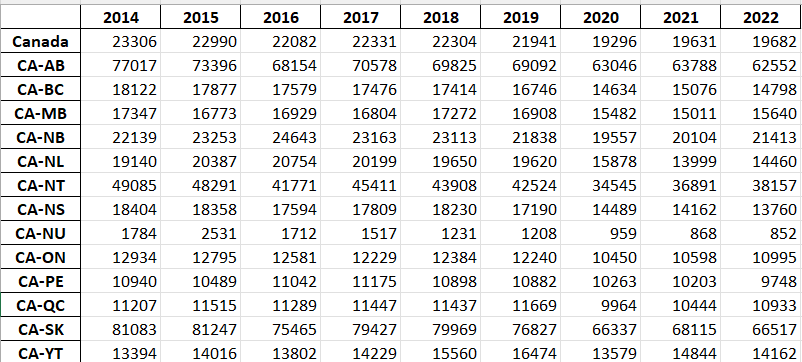
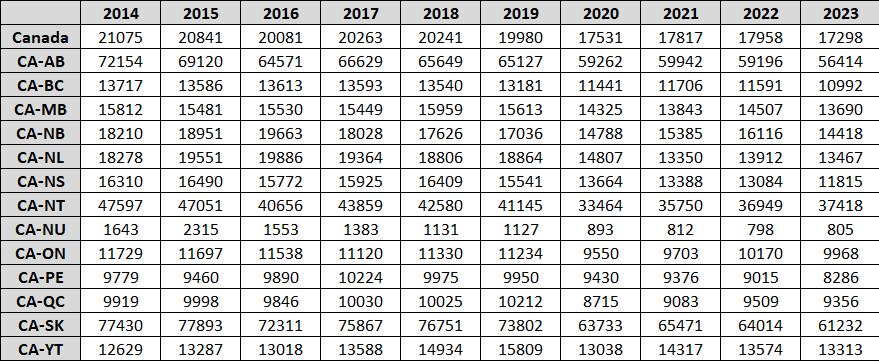
Finalize v2.12 release.

diff --git a/README.md b/README.md
@@ -1,48 +1,53 @@
-## _OpenIO-Canada v2.11.1_
+## _OpenIO-Canada v2.12_
 
 Python class creating Multi-Regional symmetric Environmentally Extended Input-Output (MREEIO) tables for Canada. OpenIO-Canada 
 operates at the provincial level (13 provinces). It can thus be used to compare the environmental impacts of value chains
 or consumption by households from any specific province.
 
-The database covers reference years from 2014 to 2022.
+The database covers reference years from 2014 to 2023.
 
 OpenIO-Canada covers 492 commodities, 33 GHGs, around 300 pollutants in 3 compartments (air, water and soil), 
-67 mineral resources, water consumption, energy use and plastic waste pollution.
+67 mineral resources, water consumption and energy use.
 
 OpenIO-Canada is connected to the Exiobase global MRIO database to model value chains happening outside Canada.
 
-**_IMPORTANT_** While openIO-Canada v2.11.1 CAN operate with Exiobase versions 3.9.4, 3.9.5, 3.9.6, 3.10.1, 3.10.2 we do NOT recommend 
-using these versions of Exiobase, as there are significant mistakes in the modeling of the mining sector. This triggers
-a drastic overestimation of Canada's own footprint, through its imports of minerals (notably through the American imports).
+**_IMPORTANT_** While openIO-Canada v2.12 CAN operate with Exiobase versions 3.9.4, 3.9.5, 3.9.6, 3.10.1, 3.10.2 we do NOT recommend 
+using these versions of Exiobase, as there are significant mistakes in the modeling of the mining sector. Instead use the
+latest available version from v3.11.2.
+
+Only interested in the emission factors of the latest year? You can access them already extracted here: https://doi.org/10.5281/zenodo.5553376
 
 ### Getting started
 
 Clone the repository (or download it) and install the different libraries required to run this Python class (requirements.txt).<br>
-Note that we recommend working with version **3.9** of Python as we can ensure it works for that specific version.<br>
 Go to the doc folder and start with the Running_openIO-Canada.ipynb file to generate the IO tables. You can then explore 
 how to use openIO-Canada with the other notebooks.
 
 ### Carbon footprint per capita estimates
-Using openIO-Canada v2.11.1 (with capitals endogenized) and population estimates from StatCan, we can derive carbon 
-footprints per capita for all 13 provinces of Canada, and Canada as a whole, from 2014 to 2022, following a consumption approach.
+Using openIO-Canada v2.12 (with capitals endogenized) and population estimates from StatCan, we can derive carbon 
+footprints per capita for all 13 provinces of Canada, and Canada as a whole, from 2014 to 2023, following a consumption approach.
 
 <img src="images/consumption_footprints.png" width="600"/>
 
-We can see that the national carbon footprint per capita is around 19tCO2eq, even though it slightly decreased during the
-COVID years (2019, 2020 & 2021). We can also note that there was virtually no progress nationally from 2014 to 2022. 
-Per province, it follows a similar trend of virtually no progress. Three provinces stand out. Alberta significantly reduced
-its enormous carbon footprint per capita from 34tCO2eq to 24tCO2eq, even though it is still one of the worst in Canada. 
-On the other hand, both Québec and British Columbia in 2022 had their worst carbon footprint by far in over 8 years.
+We can see that the national carbon footprint per capita is around 15.5tCO2eq, which represents its lowest level since 2014.
+Similar trends can be observed across provinces, with 2023 often being the year with the lowest per capita carbon footprint.
+In particular, let's highlight the per capita carbon footprint of Alberta, which decreased from 32tCO2eq/hab. to 20tCO2eq, below
+Saskatchewan and Nova Scotia.
+These decreases should most likely be due to two factors:
+- there was a surge in population in 2023 across Canada (1.3 million more inhabitants), resulting in a drop in per capita
+carbon footprint
+- Electric power generation emissions plunged acros provinces. One notable exception is Ontario which switch some of its
+nuclear power generation for natural gas power plant, which increased its electricity power generation emissions by nearly 50%.
 
 We can also look at the same results, but through a territorial approach.
 
 <img src="images/territorial_footprints.png" width="600"/>
 
-The national carbon footprint following a territorial approach is also around 20tCO2eq. This time however, we can see a small
-decrease of that footprint over time. This could be explained by a greening of the operations throughout Canada, although 
-such a greening procedure would have most likely triggered a decrease of the consumption footprint as well. This thus 
-rather seems to indicate that Canada delocalized a part of its production, instead relying on imports. <br>
-Regarding provinces, we can see that the worst of the national production exclusively happens in Alberta and Saskatchewan.
+The national carbon footprint following a territorial approach is around 17tCO2eq. 2023 is also the year with the lowest
+territorial GHG emissions since 2014. This is once again driven by decreased across the board, but more importantly, in
+Alberta and Saskatchewan which both have tremendous per capita footprint, due to petroleum extraction activities. Except
+for these two provinces, the territorial approach yields a smaller carbon footprint than the consumption one, highlighting
+than other provinces are mostly importers of GHG emissions, rather than producers/exporters.
 
 
 ### Classification detail
@@ -92,13 +97,16 @@ maxime.agez@polymtl.ca
 ### Citation
 https://doi.org/10.5281/zenodo.8200655
 
+## 📊 Community Adoption
+
 ### Scientific articles using openIO-Canada
+- Antoine Théron, Guillaume Escoffier, Jean-François Bussières (2026). Estimation des gaz à effet de serre générés par les médicaments en établissement de santé: comparaison de deux méthodes, Annales Pharmaceutiques Françaises, ISSN 0003-4509,https://doi.org/10.1016/j.pharma.2026.08.001.
 - Santiago Zuluaga, Shoshanna Saxe (2025), Leveraging building permit data for large-scale embodied carbon and circularity assessment of residential building construction, Environ. Res.: Infrastruct. Sustain. 5 035015. https://doi.org/10.1088/2634-4505/adfc95
 - Wambersie, L., & Ouellet-Plamondon, C. (2024). Developing a comprehensive account of embodied emissions within the Canadian construction sector. Journal of Industrial Ecology, 1–14. https://doi.org/10.1111/jiec.13548
 - Yoffe, H., et al. (2024). Mapping construction sector greenhouse gas emissions: a crucial step in sustainability meeting increasing housing demands. Environmental research - Infrastructure and sustainability. https://doi.org/10.1088/2634-4505/ad546a
-- Anne de Bortoli, Maxime Agez (2023), Environmentally-extended input-output analyses efficiently sketch large-scale environmental transition plans: Illustration by Canada's road industry, Journal of Cleaner Production, Volume 388, 2023, 136039, ISSN 0959-6526, https://doi.org/10.1016/j.jclepro.2023.136039.
+- Anne de Bortoli, Maxime Agez (2023). Environmentally-extended input-output analyses efficiently sketch large-scale environmental transition plans: Illustration by Canada's road industry, Journal of Cleaner Production, Volume 388, 2023, 136039, ISSN 0959-6526, https://doi.org/10.1016/j.jclepro.2023.136039.
 
-## 📊 Community & Industry Adoption
+### Public and private organizations reports using openIO-Canada
 
 The openIO-Canada database is utilized by public and private organizations for carbon accounting and environmental modeling.
 
@@ -108,6 +116,9 @@ The openIO-Canada database is utilized by public and private organizations for c
 | **RECYC-QUÉBEC**                           | Circular Economy Modeling     | [2025 Study](https://www.recyc-quebec.gouv.qc.ca/sites/default/files/documents/etude-reemploi-aviseo.pdf) / [2025 Report](https://www.recyc-quebec.gouv.qc.ca/sites/default/files/documents/rapport-indice-circularite2025.pdf) |
 | **Ville de Montréal**                      | Community Footprint Esimating | [Official Report](https://portail-m4s.s3.montreal.ca/pdf/ciraig_vdm_inventaire_ges_conso_2017.pdf)                                                                                                                              |
 | **Public Services and Procurement Canada** | Procurement Footprinting      | [Official Report](https://canadacommons.ca/artifacts/21670110/carbon-footprint-of-procurements-by-public-services-and-procurement-canada/22570299/)                                                                             |
+| **Treasury Board Secretariat of Canada**   | Procurement Footprinting      | [Official Report](https://ciraig.org/wp-content/uploads/CIRAIG_TBS_GHG_Footprint_Procurement_final_w_exec_summary_EN.pdf)                                                                             |
+| **Réseau universitaire québécois en développement durable (RUQDD)**                                 | Methodological Guide          | [Official Report](https://doi.org/10.60918/23208)                                                                             |
+
 
 
 

diff --git a/validation.md b/validation.md
@@ -5,12 +5,14 @@
   - v2.9 estimates at 660MtCO2e the total footprint of Canada
   - v2.10 estimates at 660MtCO2e the total footprint of Canada
   - v2.11 estimates at 662MtCO2e the total footprint of Canada
+  - v2.12 estimates at 651MtCO2e the total footprint of Canada
 - Production-based approach
   - v2.7 estimates at 814MtCO2e the total footprint of Canada
   - v2.8 estimates at 795MtCO2e the total footprint of Canada
   - v2.9 estimates at 802MtCO2e the total footprint of Canada
   - v2.10 estimates at 802MtCO2e the total footprint of Canada
   - v2.11 estimates at 796MtCO2eq the total footprint of Canada
+  - v2.12 estimates at 746MtCO2eq the total footprint of Canada
 
 In the v2.9, we have access to disaggregated GHG accounts once again. Characterization factors applied were thus updated
 from the IPCC AR5 to IPCC AR6, explaining the slight increase observed between v2.8 and v2.9. Numbers from the v2.9 are 
@@ -19,8 +21,11 @@ were higher than the new numbers from the AR6.
 
 The v2.10 does not include modifications to the results for the GWP100 results.
 
-The v2.11 accounts for the origi nof imports at the provincial level (while before it was at the national level), which
+The v2.11 accounts for the origin of imports at the provincial level (while before it was at the national level), which
 thus explains the slight differences observed at the national level.
+
+The v2.12 shifted from exiobase 3.8.2 to exiobase 3.11.2, triggering massive decreases across the board, due to how
+reduced non-combustion emissions were in from 3.8.2 to 3.11.2.
 
 #### _Comparing aggregated GWP scores from openIO-Canada v2.7 for the whole Canadian economy using consumption-based and production-based approaches, with Canadian GWP scores from Exiobase3.8.2 2019 and Eora26 results for 2018 (latest year available)_
 

diff --git a/Data_sources.md b/Data_sources.md
@@ -8,24 +8,20 @@
 - energy use: https://doi.org/10.25318/3810009601-eng
 - other pollutants: https://open.canada.ca/data/en/dataset/1fb7d8d4-7713-4ec6-b957-4a882a84fed3
 - mineral extractions: https://www.usgs.gov/centers/national-minerals-information-center/latin-america-and-canada-north-america-central-america#ca
-- plastic waste data within Canada: https://doi.org/10.25318/3810015001-eng
-- plastic waste data worldwide: https://stats.oecd.org/Index.aspx?DataSetCode=PLASTIC_WASTE_5
 - exiobase3: https://doi.org/10.5281/zenodo.5589597
 - exiobase3 capital endogenization: https://doi.org/10.5281/zenodo.7073276
 - IMPACT World+ impact assessment methodology: https://doi.org/10.5281/zenodo.14041258
 
 ### Latest available year in v2.11
-- economic data: 2022
-- international merchandise trade data: 2022
-- consumption of fixed capital: 2022
-- main ghg emissions (CO2, CH4 and N2O): 2022
+- economic data: 2023
+- international merchandise trade data: 2023
+- consumption of fixed capital: 2023
+- main ghg emissions (CO2, CH4 and N2O): 2023
 - SF6, HFCs and PFCs: 2021
 - water use: 2021
-- energy use: 2022
-- other pollutants: 2022
-- mineral extractions: 2022 (except Copper and Nickel: 2020)
-- plastic waste data within Canada: 2020
-- plastic waste data worldwide: 2020
-- exiobase3: 2022
+- energy use: 2023
+- other pollutants: 2023
+- mineral extractions: 2022
+- exiobase3: 2023
 - exiobase3 capital endogenization: 2020
-- IMPACT World+ impact assessment methodology: v2.1
+- IMPACT World+ impact assessment methodology: v2.2.1

diff --git a/Methodology.md b/Methodology.md
@@ -163,8 +163,11 @@ acidification or the impact of climate change on human health and biodiversity.
 
 Since the GHG emissions are only provided by a more aggregated level than the classification of openIO-Canada (GHGs for 
 115 industries vs 240 industries with the detail level of supply and use accounts), the GHG emissions were distributed 
-proportionate to the sales. For example, if “Wheat” represents 5% of the sales of “Crop production” then “Wheat” gets 
-5% of all CO2, CH4 and N2O emissions of “Crop production”.
+proportionate to the purchase of fuels. For example, if “Gold and silver ore mining” represents 25% of the total consumption of 
+fuels by the sectors belonging to “Metal ore mining”, then “Gold and silver ore mining” gets 25% of all CO2, CH4 and N2O emissions 
+of “Metal ore mining”. Note that when then applying the technology industry construct, the emissions are then distributed
+to commodities belonging to a sector by market shares. So if "Gold" represents 80% of the sales of "Gold and silver ore mining",
+then it is attributed 80% of the GHG emissions.
 
 Physical accounts also provide the GHG emissions for households, which they separate in two categories: “Motor fuels and
 lubricants”, which mainly pertains to emissions of using one’s car and “Heating, lighting and appliances” which 
